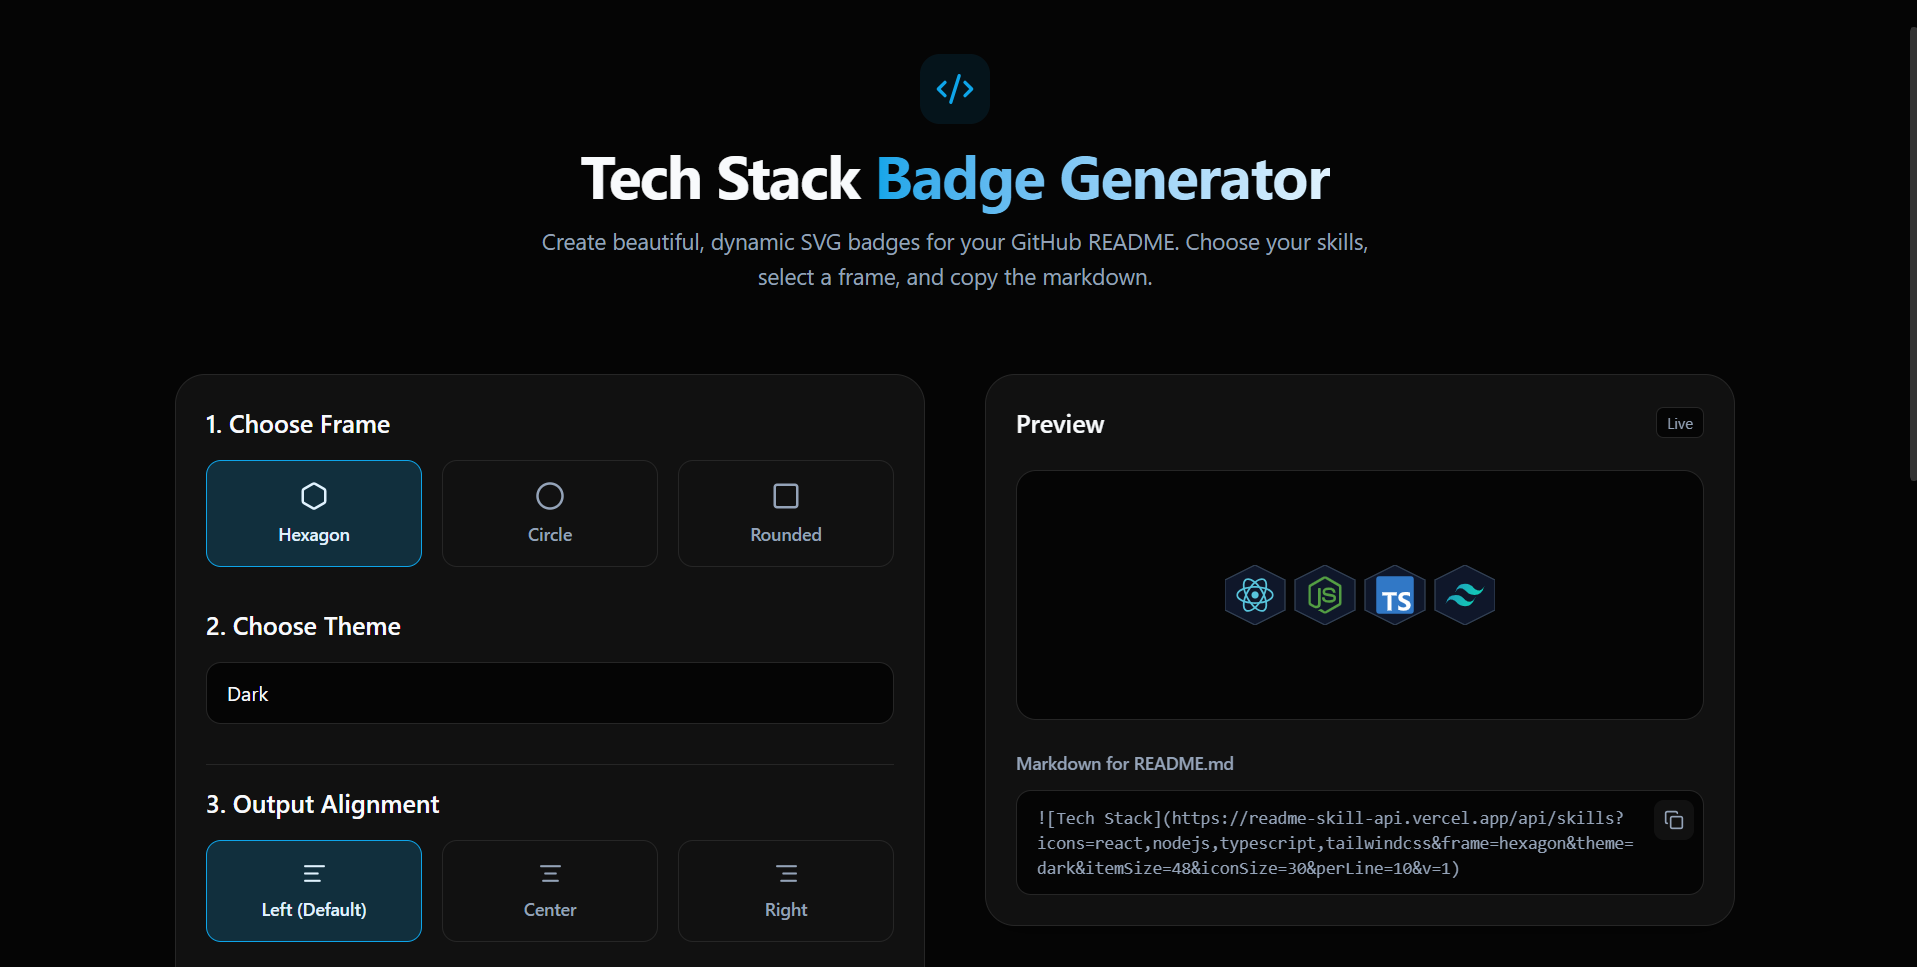
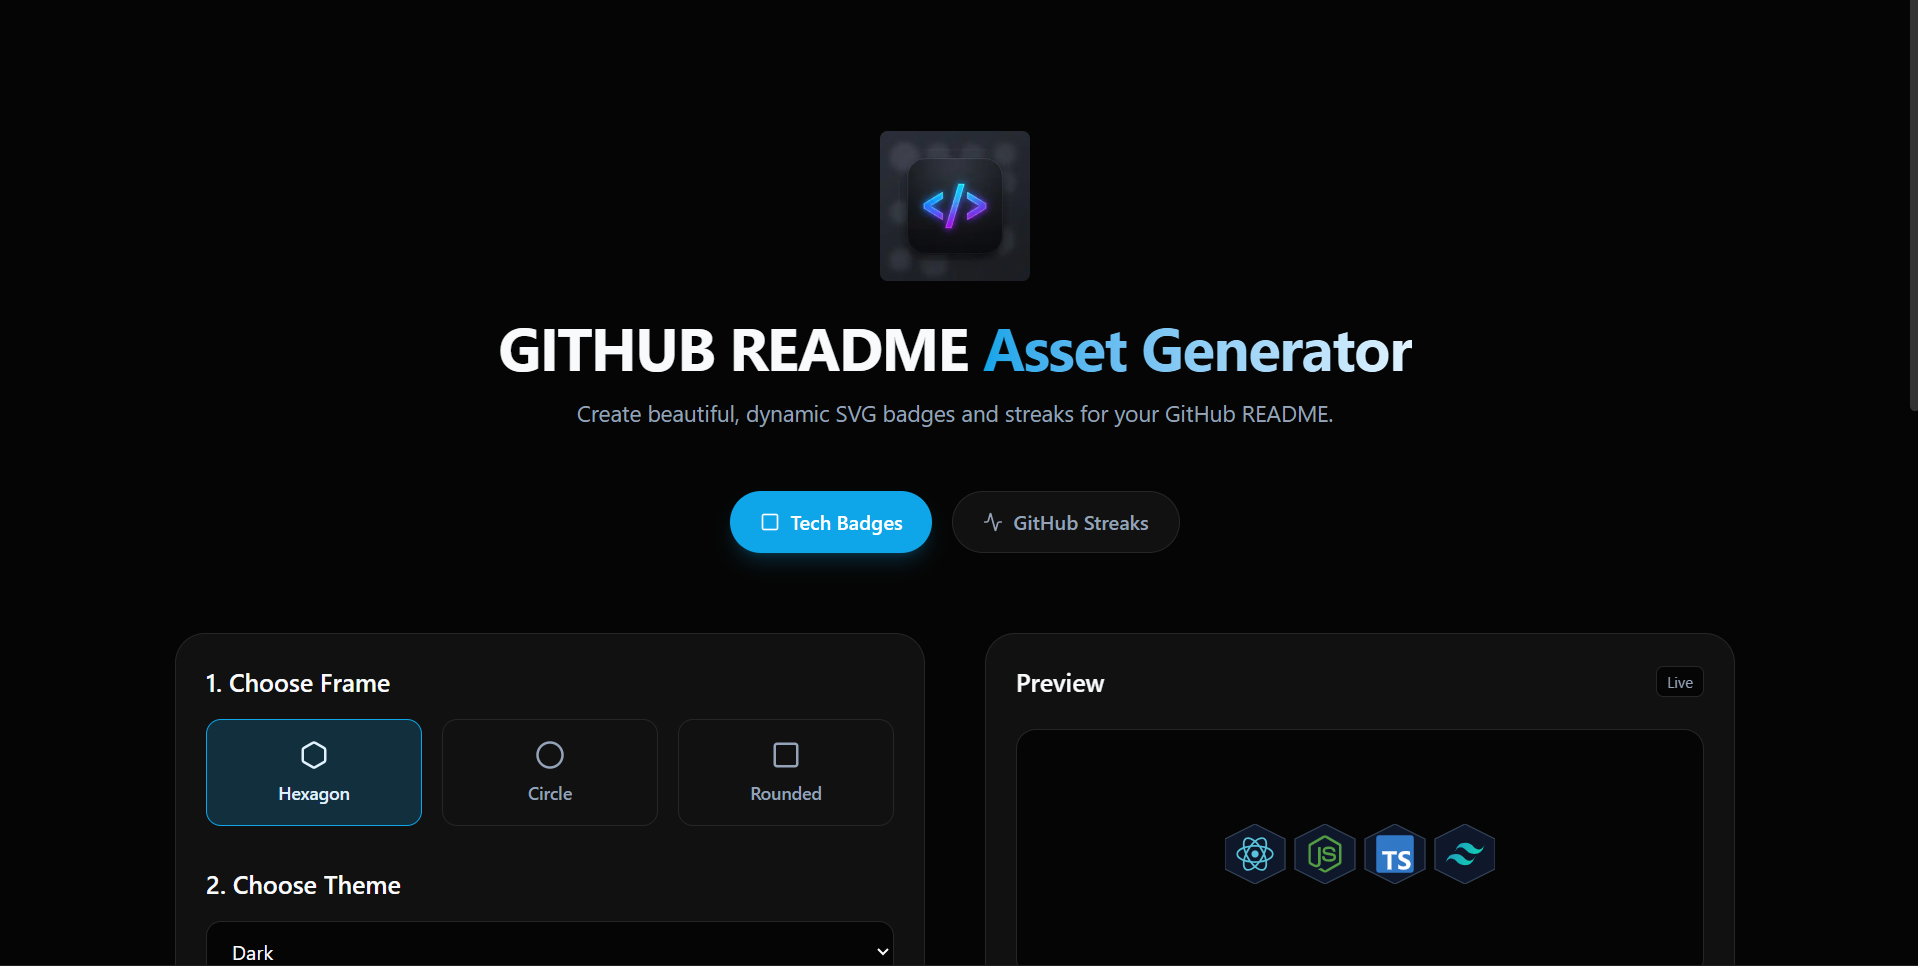
feat: initialize root layout with metadata and SEO configuration including OpenGraph and Twitter support

diff --git a/app/layout.tsx b/app/layout.tsx
@@ -13,12 +13,15 @@ const geistMono = Geist_Mono({
 });
 
 export const metadata: Metadata = {
-  title: "Tech Stack Badge Generator | Create Beautiful GitHub README Badges",
-  description: "Generate beautiful, dynamic SVG tech stack badges for your GitHub README profile. Choose from various frames like hexagons and circles, select your skills, and customize themes.",
+  title: "GitHub README Asset Generator | Badges & Streaks",
+  description: "Create beautiful, dynamic SVG tech stack badges and contribution streaks for your GitHub README profile. Customize themes, borders, and layouts instantly.",
   keywords: [
     "github readme", 
     "tech stack", 
     "badge generator", 
+    "github streaks",
+    "contribution streaks",
+    "github stats",
     "svg badges", 
     "developer profile", 
     "github profile", 
@@ -30,21 +33,21 @@ export const metadata: Metadata = {
   openGraph: {
     type: "website",
     locale: "en_US",
-    title: "Tech Stack Badge Generator",
-    description: "Create beautiful, dynamic SVG tech stack badges for your GitHub README.",
-    siteName: "Tech Stack Badge Generator",
+    title: "GitHub README Asset Generator | Badges & Streaks",
+    description: "Create beautiful, dynamic SVG tech stack badges and contribution streaks for your GitHub README profile.",
+    siteName: "GitHub README Asset Generator",
     url: "https://readme-skill-api.vercel.app/",
     images: [
       {
         url: "/image.png",
-        alt: "Tech Stack Badge Generator",
+        alt: "GitHub README Asset Generator",
       },
     ],
   },
   twitter: {
     card: "summary_large_image",
-    title: "Tech Stack Badge Generator",
-    description: "Create beautiful, dynamic SVG tech stack badges for your GitHub README.",
+    title: "GitHub README Asset Generator | Badges & Streaks",
+    description: "Create beautiful, dynamic SVG tech stack badges and contribution streaks for your GitHub README profile.",
     images: ["/image.png"],
   },
   icons: {
